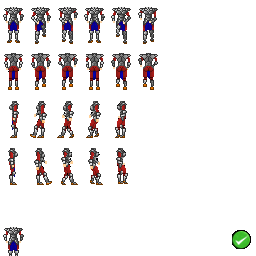
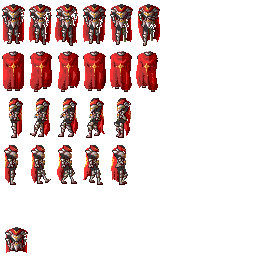
cambio sprites armaduras

Changed region(s): [[0.0, 0.0, 0.625, 0.75], [0.0, 0.875, 0.125, 1.0], [0.9062, 0.875, 1.0, 0.9688]]

diff --git a/client/render/sprites/sprite_data.cpp b/client/render/sprites/sprite_data.cpp
@@ -600,26 +600,25 @@ HeadData make_gnomo_head_data() {
 
 SpriteData make_armadura_cuero_sprite_data() {
     SpriteData d;
-    d.frame_rects[DIR_SOUTH][0] = {4, 6, 19, 40};
-    d.frame_rects[DIR_SOUTH][1] = {30, 6, 20, 40};
-    d.frame_rects[DIR_SOUTH][2] = {57, 6, 20, 40};
-    d.frame_rects[DIR_SOUTH][3] = {85, 6, 19, 40};
+    d.frame_rects[DIR_SOUTH][0] = {5, 7, 17, 37};
+    d.frame_rects[DIR_SOUTH][1] = {32, 7, 18, 37};
+    d.frame_rects[DIR_SOUTH][2] = {59, 7, 18, 38};
+    d.frame_rects[DIR_SOUTH][3] = {86, 7, 17, 37};
 
-    d.frame_rects[DIR_NORTH][0] = {4, 53, 19, 40};
-    d.frame_rects[DIR_NORTH][1] = {30, 53, 20, 40};
-    d.frame_rects[DIR_NORTH][2] = {57, 53, 20, 40};
-    d.frame_rects[DIR_NORTH][3] = {85, 53, 19, 40};
+    d.frame_rects[DIR_NORTH][0] = {5, 54, 17, 37};
+    d.frame_rects[DIR_NORTH][1] = {32, 54, 18, 38};
+    d.frame_rects[DIR_NORTH][2] = {59, 54, 18, 38};
+    d.frame_rects[DIR_NORTH][3] = {86, 54, 17, 37};
 
-    
-    d.frame_rects[DIR_EAST][0] = {7, 146, 10, 39};
-    d.frame_rects[DIR_EAST][1] = {34, 146, 14, 39};
-    d.frame_rects[DIR_EAST][2] = {60, 146, 15, 39};
-    d.frame_rects[DIR_EAST][3] = {88, 146, 14, 39};
-    
-    d.frame_rects[DIR_WEST][0] = {10, 99, 10, 39};
-    d.frame_rects[DIR_WEST][1] = {33, 99, 14, 39};
-    d.frame_rects[DIR_WEST][2] = {60, 99, 15, 39};
-    d.frame_rects[DIR_WEST][3] = {87, 99, 14, 39};
+    d.frame_rects[DIR_WEST][0] = {8, 101, 9, 37};
+    d.frame_rects[DIR_WEST][1] = {29, 101, 15, 37};
+    d.frame_rects[DIR_WEST][2] = {56, 101, 17, 37};
+    d.frame_rects[DIR_WEST][3] = {85, 101, 14, 37};
+
+    d.frame_rects[DIR_EAST][0] = {10, 148, 9, 37};
+    d.frame_rects[DIR_EAST][1] = {37, 148, 16, 37};
+    d.frame_rects[DIR_EAST][2] = {62, 148, 17, 37};
+    d.frame_rects[DIR_EAST][3] = {90, 148, 14, 37};
 
     d.head_neck = 16;
     return d;
@@ -627,25 +626,25 @@ SpriteData make_armadura_cuero_sprite_data() {
 
 SpriteData make_armadura_placas_sprite_data() {
     SpriteData d;
-    d.frame_rects[DIR_SOUTH][0] = {3, 7, 21, 37};
-    d.frame_rects[DIR_SOUTH][1] = {31, 7, 20, 37};
-    d.frame_rects[DIR_SOUTH][2] = {58, 7, 20, 37};
-    d.frame_rects[DIR_SOUTH][3] = {84, 7, 21, 37};
+    d.frame_rects[DIR_SOUTH][0] = {2, 4, 23, 40};
+    d.frame_rects[DIR_SOUTH][1] = {29, 4, 23, 41};
+    d.frame_rects[DIR_SOUTH][2] = {55, 4, 23, 42};
+    d.frame_rects[DIR_SOUTH][3] = {83, 4, 23, 40};
 
-    d.frame_rects[DIR_NORTH][0] = {4, 53, 19, 37};
-    d.frame_rects[DIR_NORTH][1] = {31, 53, 20, 37};
-    d.frame_rects[DIR_NORTH][2] = {58, 53, 20, 37};
-    d.frame_rects[DIR_NORTH][3] = {86, 53, 18, 37};
+    d.frame_rects[DIR_NORTH][0] = {2, 51, 22, 40};
+    d.frame_rects[DIR_NORTH][1] = {30, 51, 22, 41};
+    d.frame_rects[DIR_NORTH][2] = {58, 51, 22, 41};
+    d.frame_rects[DIR_NORTH][3] = {83, 51, 23, 40};
 
-    d.frame_rects[DIR_EAST][0] = {8, 148, 10, 37};
-    d.frame_rects[DIR_EAST][1] = {34, 148, 18, 37};
-    d.frame_rects[DIR_EAST][2] = {61, 148, 17, 37};
-    d.frame_rects[DIR_EAST][3] = {88, 148, 15, 37};
+    d.frame_rects[DIR_WEST][0] = {9, 98, 14, 40};
+    d.frame_rects[DIR_WEST][1] = {30, 98, 20, 39};
+    d.frame_rects[DIR_WEST][2] = {58, 98, 20, 39};
+    d.frame_rects[DIR_WEST][3] = {86, 98, 19, 40};
 
-    d.frame_rects[DIR_WEST][0] = {9, 101, 10, 37};
-    d.frame_rects[DIR_WEST][1] = {30, 101, 17, 37};
-    d.frame_rects[DIR_WEST][2] = {57, 101, 17, 37};
-    d.frame_rects[DIR_WEST][3] = {86, 101, 15, 37};
+    d.frame_rects[DIR_EAST][0] = {4, 145, 14, 40};
+    d.frame_rects[DIR_EAST][1] = {31, 145, 20, 39};
+    d.frame_rects[DIR_EAST][2] = {57, 145, 20, 39};
+    d.frame_rects[DIR_EAST][3] = {83, 145, 20, 40};
 
     d.head_neck = 12;
     return d;
@@ -653,25 +652,25 @@ SpriteData make_armadura_placas_sprite_data() {
 
 SpriteData make_tunica_azul_sprite_data() {
     SpriteData d;
-    d.frame_rects[DIR_SOUTH][0] = {4, 7, 19, 38};
-    d.frame_rects[DIR_SOUTH][1] = {32, 7, 18, 38};
-    d.frame_rects[DIR_SOUTH][2] = {59, 7, 18, 38};
-    d.frame_rects[DIR_SOUTH][3] = {85, 7, 19, 38};
+    d.frame_rects[DIR_SOUTH][0] = {3, 6, 21, 38};
+    d.frame_rects[DIR_SOUTH][1] = {30, 6, 20, 40};
+    d.frame_rects[DIR_SOUTH][2] = {57, 6, 20, 39};
+    d.frame_rects[DIR_SOUTH][3] = {84, 6, 20, 38};
 
-    d.frame_rects[DIR_NORTH][0] = {4, 54, 19, 38};
-    d.frame_rects[DIR_NORTH][1] = {32, 54, 18, 38};
-    d.frame_rects[DIR_NORTH][2] = {59, 54, 18, 38};
-    d.frame_rects[DIR_NORTH][3] = {85, 54, 19, 38};
+    d.frame_rects[DIR_NORTH][0] = {3, 53, 20, 38};
+    d.frame_rects[DIR_NORTH][1] = {30, 53, 20, 38};
+    d.frame_rects[DIR_NORTH][2] = {57, 53, 20, 39};
+    d.frame_rects[DIR_NORTH][3] = {84, 53, 20, 38};
 
-    d.frame_rects[DIR_EAST][0] = {8, 148, 12, 37};
-    d.frame_rects[DIR_EAST][1] = {35, 148, 18, 37};
-    d.frame_rects[DIR_EAST][2] = {62, 148, 17, 37};
-    d.frame_rects[DIR_EAST][3] = {89, 148, 17, 37};
+    d.frame_rects[DIR_WEST][0] = {6, 100, 14, 37};
+    d.frame_rects[DIR_WEST][1] = {31, 100, 16, 37};
+    d.frame_rects[DIR_WEST][2] = {59, 100, 16, 37};
+    d.frame_rects[DIR_WEST][3] = {86, 100, 15, 37};
 
-    d.frame_rects[DIR_WEST][0] = {7, 101, 12, 37};
-    d.frame_rects[DIR_WEST][1] = {28, 101, 18, 37};
-    d.frame_rects[DIR_WEST][2] = {56, 101, 17, 37};
-    d.frame_rects[DIR_WEST][3] = {83, 101, 17, 37};
+    d.frame_rects[DIR_EAST][0] = {7, 147, 14, 37};
+    d.frame_rects[DIR_EAST][1] = {34, 147, 16, 37};
+    d.frame_rects[DIR_EAST][2] = {61, 147, 15, 37};
+    d.frame_rects[DIR_EAST][3] = {88, 147, 15, 37};
 
     d.head_neck = 14;
     return d;

diff --git a/client/render/sprites/item_sprite_registry.cpp b/client/render/sprites/item_sprite_registry.cpp
@@ -47,11 +47,11 @@ void ItemSpriteRegistry::load_defs() {
                   arma_icono);
 
     register_item("Armadura de cuero",
-              "objetos/armaduras/armaduraCuero.png", {8, 225, 24, 31}, 5);
+              "objetos/armaduras/armaduraCuero.png", {7, 228, 17, 24}, 5);
     register_item("Armadura de placas",
-                "objetos/armaduras/armaduraPlacas.png", {0, 224, 24, 32}, 5);
+                "objetos/armaduras/armaduraPlacas.png", {5, 227, 23, 26}, 5);
     register_item("Tunica azul",
-                "objetos/armaduras/tunicaAzul.png", {0, 224, 31, 32}, 5);
+                "objetos/armaduras/tunicaAzul.png", {8, 226, 16, 28}, 5);
 
     register_item("Capucha",
                   "objetos/armaduras/capucha.png", {6, 8, 14, 20}, 5);